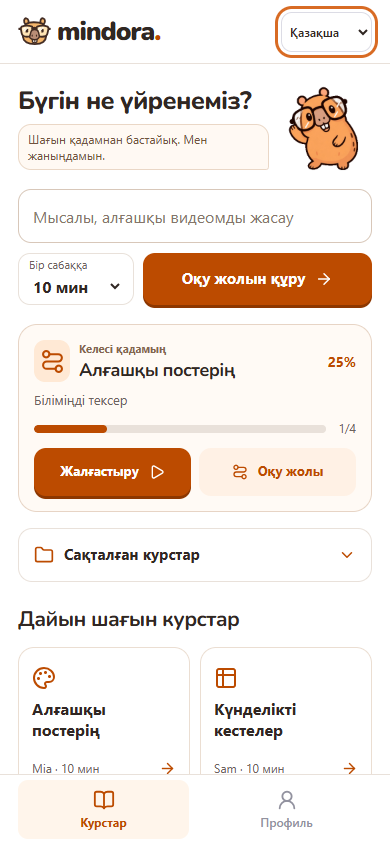
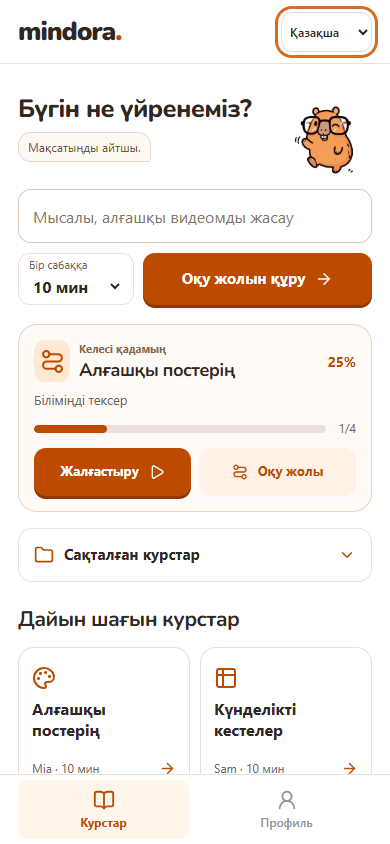
Give the home screen one responsive Mino and pace mentor gestures

Changed region(s): [[0.0308, 0.0924, 0.6462, 0.2156], [0.7385, 0.0924, 0.9231, 0.2156], [0.0308, 0.0, 0.4, 0.0616]]

diff --git a/ui/shell.js b/ui/shell.js
@@ -1,6 +1,6 @@
 import { brandNav, courseNames } from './dashboard.js';
 import { icon } from './icons.js';
-import { character, mountCharacters } from './characters.js';
+import { mountCharacters } from './characters.js';
 import { mountPresentation } from './presentation.js';
 import { languagePicker, t } from './language.js';
 import { mountLessonFlow, syncLessonFlow } from './lesson-flow.js';
@@ -60,13 +60,12 @@ export function mountShell() {
   document.head.append(courseHomeStyles);
   document.querySelector('#app').innerHTML = `<a class="skip-link" href="#main">Skip to learning</a>
   <header class="topbar">
-    <a class="brand" data-home href="#discover" aria-label="Mindora home"><img class="brand-mark" src="ui/assets/brand-mark.svg" alt="" width="43" height="43"><span class="brand-wordmark">mindora<span aria-hidden="true">.</span></span></a>
+    <a class="brand" data-home href="#discover" aria-label="Mindora home"><span class="brand-wordmark">mindora<span aria-hidden="true">.</span></span></a>
     <nav id="top-navigation" aria-label="Main navigation"></nav>
     <div class="top-actions" id="top-actions"></div>
   </header>
   <aside class="sidebar" aria-label="Main menu">
     <nav id="navigation" aria-label="Main navigation"></nav>
-    <div class="side-companion">${character('mino', 'welcome', 'sidebar-character')}<strong>Small steps.<br>Big possibilities.</strong><p>I’ll be here when you’re ready.</p><button class="text-link" data-action="about">Meet Mindora ${icon('arrow', 15)}</button></div>
   </aside>
   <div class="app-shell"><main id="main" tabindex="-1"></main></div>
   <nav class="mobile-navigation" id="mobile-navigation" aria-label="Main navigation"></nav>
@@ -159,9 +158,6 @@ export function renderShell(view, state, stats, html, rewards) {
   $('#top-actions').innerHTML = guided ? '' : `${rewardMetrics(headerRewards, true)}${languagePicker()}<button class="header-pace" data-view="profile" aria-label="${t('Daily learning time','Время на обучение','Оқу уақыты')}">${icon('clock', 17)}<span>${t(`${state.minutes} min a day`, `${state.minutes} мин в день`, `Күніне ${state.minutes} мин`)}</span></button><button class="header-account" data-account-entry data-account-open="signin">${t('Sign in','Войти','Кіру')}</button>`;
   $('.skip-link').textContent = t('Skip to learning','К содержимому','Мазмұнға өту');
   $('.modal-close').setAttribute('aria-label', t('Close window','Закрыть окно','Терезені жабу'));
-  $('.side-companion strong').textContent = t('Learn one step at a time.','Учись шаг за шагом.','Біртіндеп үйрен.');
-  $('.side-companion p').textContent = t('Go at your own pace.','Продолжай в своём темпе.','Өз қарқыныңмен жалғастыр.');
-  $('.side-companion .text-link').innerHTML = `${t('About Mindora','О Mindora','Mindora туралы')} ${icon('arrow', 15)}`;
   main.classList.toggle('dashboard-main', view === 'discover');
   main.classList.toggle('inside-main', view !== 'discover');
   main.dataset.page = view;

diff --git a/ui/characters.js b/ui/characters.js
@@ -11,11 +11,12 @@ import { interactWithMentor } from './mentor-interactions.js';
 // Keep a short, quiet beat between gestures; offscreen/reduced-motion mentors
 // still use the PNG and never run this loop.
 const pose = (stem, width = 294, height = 512, duration = 1280, pause = 1000) => ({ image: stem + '.gif', still: stem + '.png', width, height, duration, pause });
+const humanPose = (stem, width, height, duration) => pose(stem, width, height, duration, 3000);
 const humanPoses = (name, action, width, height, duration) => ({
-  welcome: pose(name + '-welcome'), thinking: pose(name + '-thinking', 294, 512, 8400, 1200),
-  celebrate: pose(name + '-celebrate', 294, 512, 1400),
-  explaining: pose(name + '-' + action, width, height, duration),
-  encourage: pose(name + '-welcome'), incorrect: pose(name + '-thinking', 294, 512, 8400, 1200),
+  welcome: humanPose(name + '-welcome'), thinking: humanPose(name + '-thinking', 294, 512, 8400),
+  celebrate: humanPose(name + '-celebrate', 294, 512, 1400),
+  explaining: humanPose(name + '-' + action, width, height, duration),
+  encourage: humanPose(name + '-welcome'), incorrect: humanPose(name + '-thinking', 294, 512, 8400),
 });
 const minoScene = (stem, duration, pause = 1000) => ({ ...pose(stem, 288, 288, duration, pause), directory: 'characters/mino-scenes' });
 const characters = Object.freeze({
@@ -231,6 +232,24 @@ export function mountCharacters() {
     }
   });
   statusElement = document.createElement('div'); statusElement.className = 'character-live-status'; statusElement.setAttribute('role', 'status'); statusElement.setAttribute('aria-live', 'polite'); document.body.append(statusElement);
+  function respondOnHome(field) {
+    const home = field.closest('.course-home');
+    if (!home || !['goal-input', 'time-select'].includes(field.id)) return;
+    const mino = home.querySelector('.course-home-mino');
+    const speech = home.querySelector('.course-home-greeting');
+    const choosingTime = field.id === 'time-select';
+    const hasGoal = !choosingTime && field.value.trim().length >= 3;
+    const mood = choosingTime ? 'map' : hasGoal ? 'idea' : 'listening';
+    const message = choosingTime
+      ? t(`Let’s try ${field.value} minutes.`, `Начнём с ${field.value} минут.`, `${field.value} минуттан бастайық.`)
+      : hasGoal ? t('Let’s make a plan!', 'Составим план!', 'Жоспар құрайық!')
+        : t('I’m listening.', 'Я слушаю.', 'Тыңдап тұрмын.');
+    if (mino.dataset.characterMood !== mood) mino.dataset.characterMood = mood;
+    if (speech.textContent !== message) speech.textContent = message;
+  }
+  for (const event of ['focusin', 'input', 'change']) {
+    document.addEventListener(event, e => { if (e.target instanceof Element) respondOnHome(e.target); });
+  }
   document.addEventListener('click', event => {
     const target = event.target instanceof Element ? event.target : event.target?.parentElement;
     const toggle = target?.closest('[data-character-motion]');

diff --git a/ui/dashboard.js b/ui/dashboard.js
@@ -36,7 +36,7 @@ export function courseHomeView(state, { current = null, libraryHtml = '', readyH
   const completed = Math.min(total, Math.max(0, Number(current?.completed) || 0));
   const percent = Math.round(completed / total * 100);
   return `<section class="course-home" data-language="${currentLanguage()}" aria-labelledby="course-home-title">
-    <header class="course-home-heading" data-mentor-scene><div><h1 id="course-home-title">${t('What will you learn today?', 'Чему научимся сегодня?', 'Бүгін не үйренеміз?')}</h1><p class="course-home-greeting" data-mentor-message>${t('One small step. I’m with you.', 'Начнём с малого. Я рядом.', 'Шағын қадамнан бастайық. Мен жаныңдамын.')}</p></div>${character('mino', 'listening', 'course-home-mino')}</header>
+    <header class="course-home-heading" data-mentor-scene><div><h1 id="course-home-title">${t('What will you learn today?', 'Чему научимся сегодня?', 'Бүгін не үйренеміз?')}</h1><p class="course-home-greeting" data-mentor-message>${completed === total ? t('You did it!', 'У тебя получилось!', 'Жарайсың!') : t('Tell me your goal.', 'Расскажи о своей цели.', 'Мақсатыңды айтшы.')}</p></div>${character('mino', completed === total ? 'trophy' : 'welcome', 'course-home-mino')}</header>
     <form id="goal-form" class="course-home-composer">
       <label class="visually-hidden" for="goal-input">${t('What do you want to learn?', 'Чему хочешь научиться?', 'Не үйренгің келеді?')}</label>
       <input id="goal-input" name="goal" value="${escapeHtml(state.homeGoal || '')}" placeholder="${t('For example, make my first video', 'Например, сделать первое видео', 'Мысалы, алғашқы видеомды жасау')}" minlength="3" maxlength="180" required autocomplete="off" enterkeyhint="go">

diff --git a/ui/course-home.css b/ui/course-home.css
@@ -105,3 +105,16 @@ body.quiet-shell .header-account[data-account-open="profile"] { display: none; }
   .course-home-heading { margin-bottom: 8px; }
   .course-home-current { margin-top: 12px; gap: 7px; padding-block: 12px; }
 }
+/* On a wide screen Mino and the greeting share a stage. Phones keep a single
+   column and a stationary action area. */
+@media (min-width: 800px) {
+  .guided-start.guided-greeting { max-width: 1040px; padding-inline: clamp(32px, 5vw, 72px); }
+  .guided-greeting .guided-content { display: grid; grid-template-columns: minmax(0, 1.25fr) minmax(220px, 1fr); grid-template-rows: auto auto; align-content: center; justify-items: start; gap: 22px 40px; }
+  .guided-greeting .guided-content h1 { grid-column: 1; grid-row: 1; align-self: end; font-size: clamp(38px, 4.4vw, 62px); line-height: 1.06; text-align: start; max-width: 11em; }
+  .guided-greeting .guided-dialogue { grid-column: 1; grid-row: 2; align-self: start; text-align: start; background: #fff9f2; }
+  .guided-greeting .guided-dialogue:after { left: auto; right: -8px; top: 35%; bottom: auto; transform: rotate(-45deg); background: #fff9f2; }
+  .guided-greeting .guided-content .guided-mino { grid-column: 2; grid-row: 1 / 3; justify-self: center; --character-size: clamp(220px, 25vw, 300px); background: radial-gradient(ellipse at center, #ffead4 0%, #fff4e9 60%, transparent 70%); }
+  .guided-greeting .guided-footer { margin-inline: 0 auto; padding-bottom: clamp(24px, 6vh, 70px); }
+  .course-home-heading { padding: 18px 24px; border-radius: 22px; background: linear-gradient(110deg, #fff5e9, #fffaf5); grid-template-columns: minmax(0, 1fr) 150px; }
+  .course-home-heading .course-home-mino { --character-size: 150px; --character-height: 150px; width: 150px; height: 150px; }
+}

diff --git a/docs/GUIDED-LEARNING.md b/docs/GUIDED-LEARNING.md
@@ -12,13 +12,13 @@ The interface teaches one idea at a time. Mino welcomes the learner; a mentor ex
 4. Choose 5, 10 or 20 minutes, then start. Existing account verification and profile persistence remain responsible for authentication; the introduction does not grant a session.
 5. For a ready built-in course, open its learning path first: completed, current and locked steps, Mino's encouragement, and one **Start lesson / Continue** button. The learner enters the lesson deliberately. English opens the curated English mini-course. A custom goal enters the personalized roadmap questions, with the goal and chosen duration already filled in.
 
-The personalized roadmap uses the existing `/api/learning-roadmap` backend. It contains four sequential lessons and preserves the learner's goal, estimated starting level and intended outcome. Only the first unfinished stage is unlocked; starting that stage generates its lesson through the existing provider and account course library. Revisiting a generated stage loads its saved course instead of generating another one. The lesson's close button returns to the whole roadmap, and the roadmap remains the selected home after reload. Existing hearts, gems, daily quests and shop behavior remain available; they do not appear on the first greeting.
+The personalized roadmap uses the existing `/api/learning-roadmap` backend. It contains four sequential lessons and preserves the learner's goal, estimated starting level and intended outcome. Only the first unfinished stage is unlocked; starting that stage generates its lesson through the existing provider and account course library. Revisiting a generated stage loads its saved course instead of generating another one. The lesson's close button returns to the whole roadmap, and the course home links back to that roadmap after reload. Existing hearts, gems, daily quests and shop behavior remain available; they do not appear on the first greeting.
 
 Creating another personalized course archives the previous path with its progress. The catalog shows each saved path once, with its stage lessons grouped under that path. **My path** opens the selected course; switching paths loads the corresponding saved lessons. The existing account workspace API synchronizes the active path and archive, with a limit of 16 personal paths.
 
-On the next visit, show the last course's connected path and **Continue**, with named steps, locked future steps and percentage progress. Ready mini-courses are a secondary action. The library combines the two existing design and spreadsheet courses with four curated starters: AI prompts, Python, English and writing. Choose **5, 10 or 20 minutes** in the catalog. The four starters have 2, 3 or 4 steps respectively, with new material in each longer version; these are estimated durations. A starter is copied into the account course library once through the existing public `library.importLocal(saved)` API; choosing the same saved starter, language and duration again uses `library.load(id)` instead of resetting its progress. Different durations retain separate saved copies. Selecting a new duration does not rewrite the active lesson. It does not require AI generation, but creating or loading its account-owned copy requires the real course-storage backend. An arbitrary goal still needs the configured AI backend.
+The Courses screen shows an editable goal, a duration selector and the current course. **Continue** resumes the saved lesson or its due review. **Learning path** opens the map. The two mobile tabs are **Courses** and **Profile**. Ready mini-courses are a secondary action. The library combines the two existing design and spreadsheet courses with four curated starters: AI prompts, Python, English and writing. Choose **5, 10 or 20 minutes** in the catalog. The four starters have 2, 3 or 4 steps respectively, with new material in each longer version; these are estimated durations. A starter is copied into the account course library once through the existing public `library.importLocal(saved)` API; choosing the same saved starter, language and duration again uses `library.load(id)` instead of resetting its progress. Different durations retain separate saved copies. Selecting a new duration does not rewrite the active lesson. It does not require AI generation, but creating or loading its account-owned copy requires the real course-storage backend. An arbitrary goal still needs the configured AI backend.
 
-Speech is visible immediately, before tapping a character. Supplied GIF gestures start automatically and pause between loops; device reduced-motion and the profile motion setting are respected. Tapping a character next to a visible dialogue acknowledges that dialogue instead of covering it with a second popup.
+Mino listens when the goal receives focus, gets an idea as the learner types, and shows a map when the duration changes. The [scene manifest](../ui/assets/characters/mino-scenes/manifest.json) describes the ten contextual animations. Human mentors rest for three seconds between gestures. Speech is visible immediately, before tapping a character. Supplied GIF gestures start automatically and pause between loops; device reduced-motion and the profile motion setting are respected. Tapping a character next to a visible dialogue acknowledges that dialogue instead of covering it with a second popup.
 
 The phone profile has a direct **Sign out of account** action; account settings are also available from the header, including during signed-in onboarding. Successful signout closes the account dialog and opens Mino's greeting. Failure keeps the session and an actionable error. Signing back in restores that account's course, answers and position. Leaving a tab is not signout.
 
